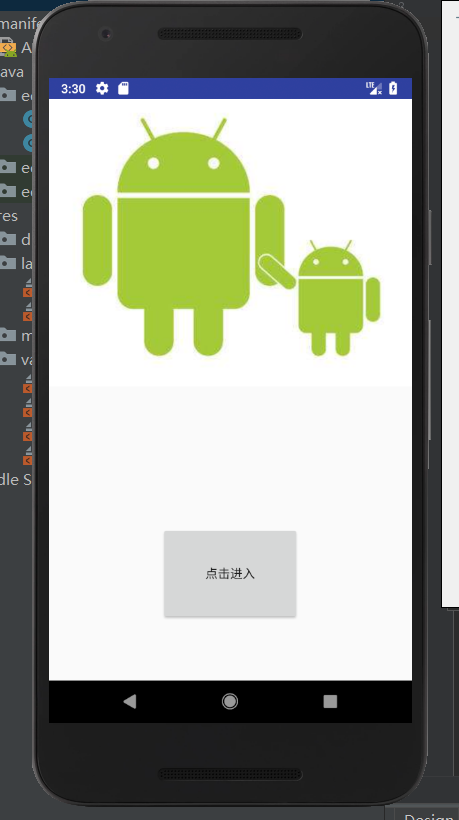
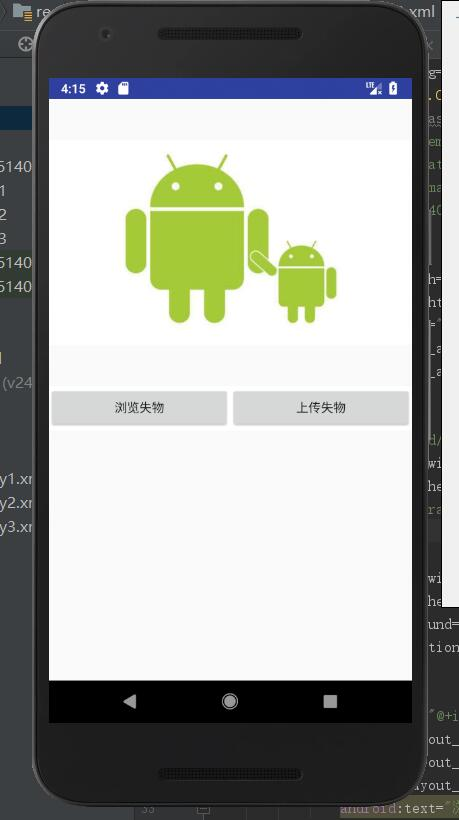
#4 #1013第四次实验

diff --git a/soft1614080902332/app/src/main/java/edu/hzuapps/androidlabs/Soft1614080902332/Soft1614080902332Activity1.java b/soft1614080902332/app/src/main/java/edu/hzuapps/androidlabs/Soft1614080902332/Soft1614080902332Activity1.java
@@ -20,12 +20,22 @@ public class Soft1614080902332Activity1 extends Activity {
 
         final Activity thisActivity = this;
 
-        final Button btnOpen = (Button) findViewById(R.id.button_open);
-        btnOpen.setOnClickListener(new View.OnClickListener() {
+        final Button btnOpen1 = (Button) findViewById(R.id.button_open1);
+        final Button btnOpen2 = (Button) findViewById(R.id.button_open2);
+        btnOpen1.setOnClickListener(new View.OnClickListener() {
             @Override
             public void onClick(View v) {
-                if(v.equals(btnOpen)) {
+                if(v.equals(btnOpen1)) {
                     Intent intent = new Intent(thisActivity,Soft1614080902332Activity2.class);
+                    thisActivity.startActivity(intent);
+                }
+            }
+        });
+        btnOpen2.setOnClickListener(new View.OnClickListener() {
+            @Override
+            public void onClick(View v) {
+                if(v.equals(btnOpen2)) {
+                    Intent intent = new Intent(thisActivity,Soft1614080902332Activity3.class);
                     thisActivity.startActivity(intent);
                 }
             }

diff --git a/soft1614080902332/app/src/main/java/edu/hzuapps/androidlabs/Soft1614080902332/Soft1614080902332Activity3.java b/soft1614080902332/app/src/main/java/edu/hzuapps/androidlabs/Soft1614080902332/Soft1614080902332Activity3.java
@@ -9,17 +9,11 @@ import android.widget.Button;
 import android.view.View.OnClickListener;
 import android.widget.ImageButton;
 
-public class Soft1614080902332Activity2 extends AppCompatActivity {
-
-
-
+public class Soft1614080902332Activity3 extends AppCompatActivity {
     @Override
     protected void onCreate(Bundle savedInstanceState) {
         super.onCreate(savedInstanceState);
-        setContentView(R.layout.soft_1614080902332_activity2);
-
-
-
+        setContentView(R.layout.soft_1614080902332_activity3);
 
     }
 }
